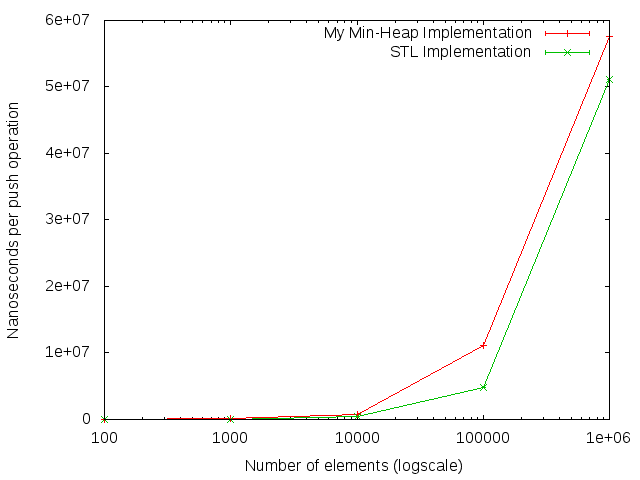
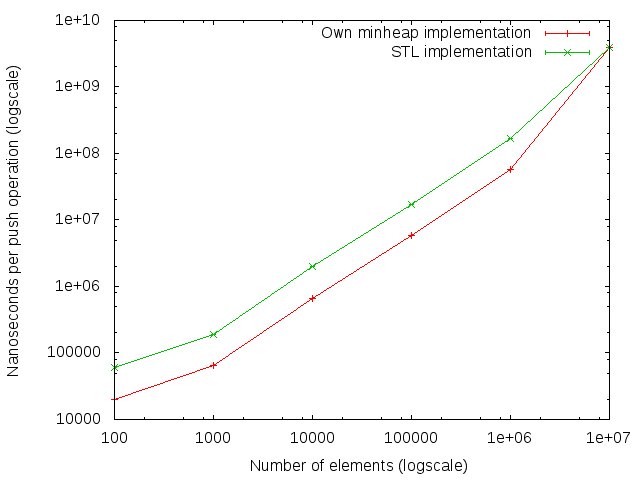
worked on task 1 exercise 2

diff --git a/exercise_1/task_2/main.cpp b/exercise_1/task_2/main.cpp
@@ -2,53 +2,73 @@
 #include "MinHeap.h"
 #include <time.h>
 #include <algorithm>
+#include <vector>
 
-bool comp(const int& a, const int& b) {
-    return b < a ? true : false;
+bool comp(const double& a, const double& b) {
+    return b < a;
 }
 
 unsigned measureOwnImplementation(unsigned n){
     timespec timeStart, timeEnd;
+    MinHeap *minHeap = new MinHeap(n);
     clock_gettime(CLOCK_REALTIME, &timeStart);
     
-    MinHeap *minHeap = new MinHeap(n);
     for(unsigned i = 0; i < n; i++){
         minHeap->push(rand() % n);
     }
     
     clock_gettime(CLOCK_REALTIME, &timeEnd);
+    delete minHeap;
     return timeEnd.tv_nsec - timeStart.tv_nsec;
 }
 
 unsigned measureSTLImplementation(unsigned n){
     timespec timeStart, timeEnd;
-    clock_gettime(CLOCK_REALTIME, &timeStart);
     
-    double *heapData = new double[n];
+    vector<double> v;
+    
+    clock_gettime(CLOCK_REALTIME, &timeStart);
     for(unsigned i = 0; i < n; i++) {
-        heapData[i] = rand() % n;
+        v.push_back(rand() % n);
+        std::push_heap(v.begin(), v.end(), comp);
     }
-    std::make_heap(heapData, heapData + n, comp);
-
     clock_gettime(CLOCK_REALTIME, &timeEnd);
 
-    delete[] heapData;
     return timeEnd.tv_nsec - timeStart.tv_nsec;
 }
 
+double mean(double *times){
+    double value = 0;
+    short length = sizeof(times)/sizeof(double);
+    for(int i = 0; i < length; i++){
+        value += times[i];
+    }
+    return value/length;
+}
+
 int main() {
+    short amountMeasures = 20;
     srand(time(NULL));
+
+    FILE * pFile;
+    pFile = fopen ("data/results.dat","w");
     
+    cout<<"Is measuring MinHeap-Push duration..."<<endl;
     for(unsigned i = 100; i <= 10000000; i = i * 10){
-        unsigned time = measureOwnImplementation(i);
-        cout << "n\t" << i << "\t" << time << "\tOWN" << endl;
+        double timesOwn[amountMeasures];
+        double timesSTL[amountMeasures];
+        
+        for(int j = 0; j<amountMeasures; j++){
+            timesOwn[j] = measureOwnImplementation(i);
+            timesSTL[j] = measureSTLImplementation(i);
+        }
+        
+        fprintf(pFile, "n\t%d\tOWN\t%f\tSTL\t%f\n", i, mean(timesOwn), mean(timesSTL));
     }
     
-    for(unsigned i = 100; i <= 10000000; i = i * 10){
-        unsigned time = measureSTLImplementation(i);
-        cout << "n\t" << i << "\t" << time << "\tSTL" << endl;
-    }
+    cout<<"Successfully run through. File written."<<endl;
     
+    fclose (pFile);
     return EXIT_SUCCESS;
 }
 
